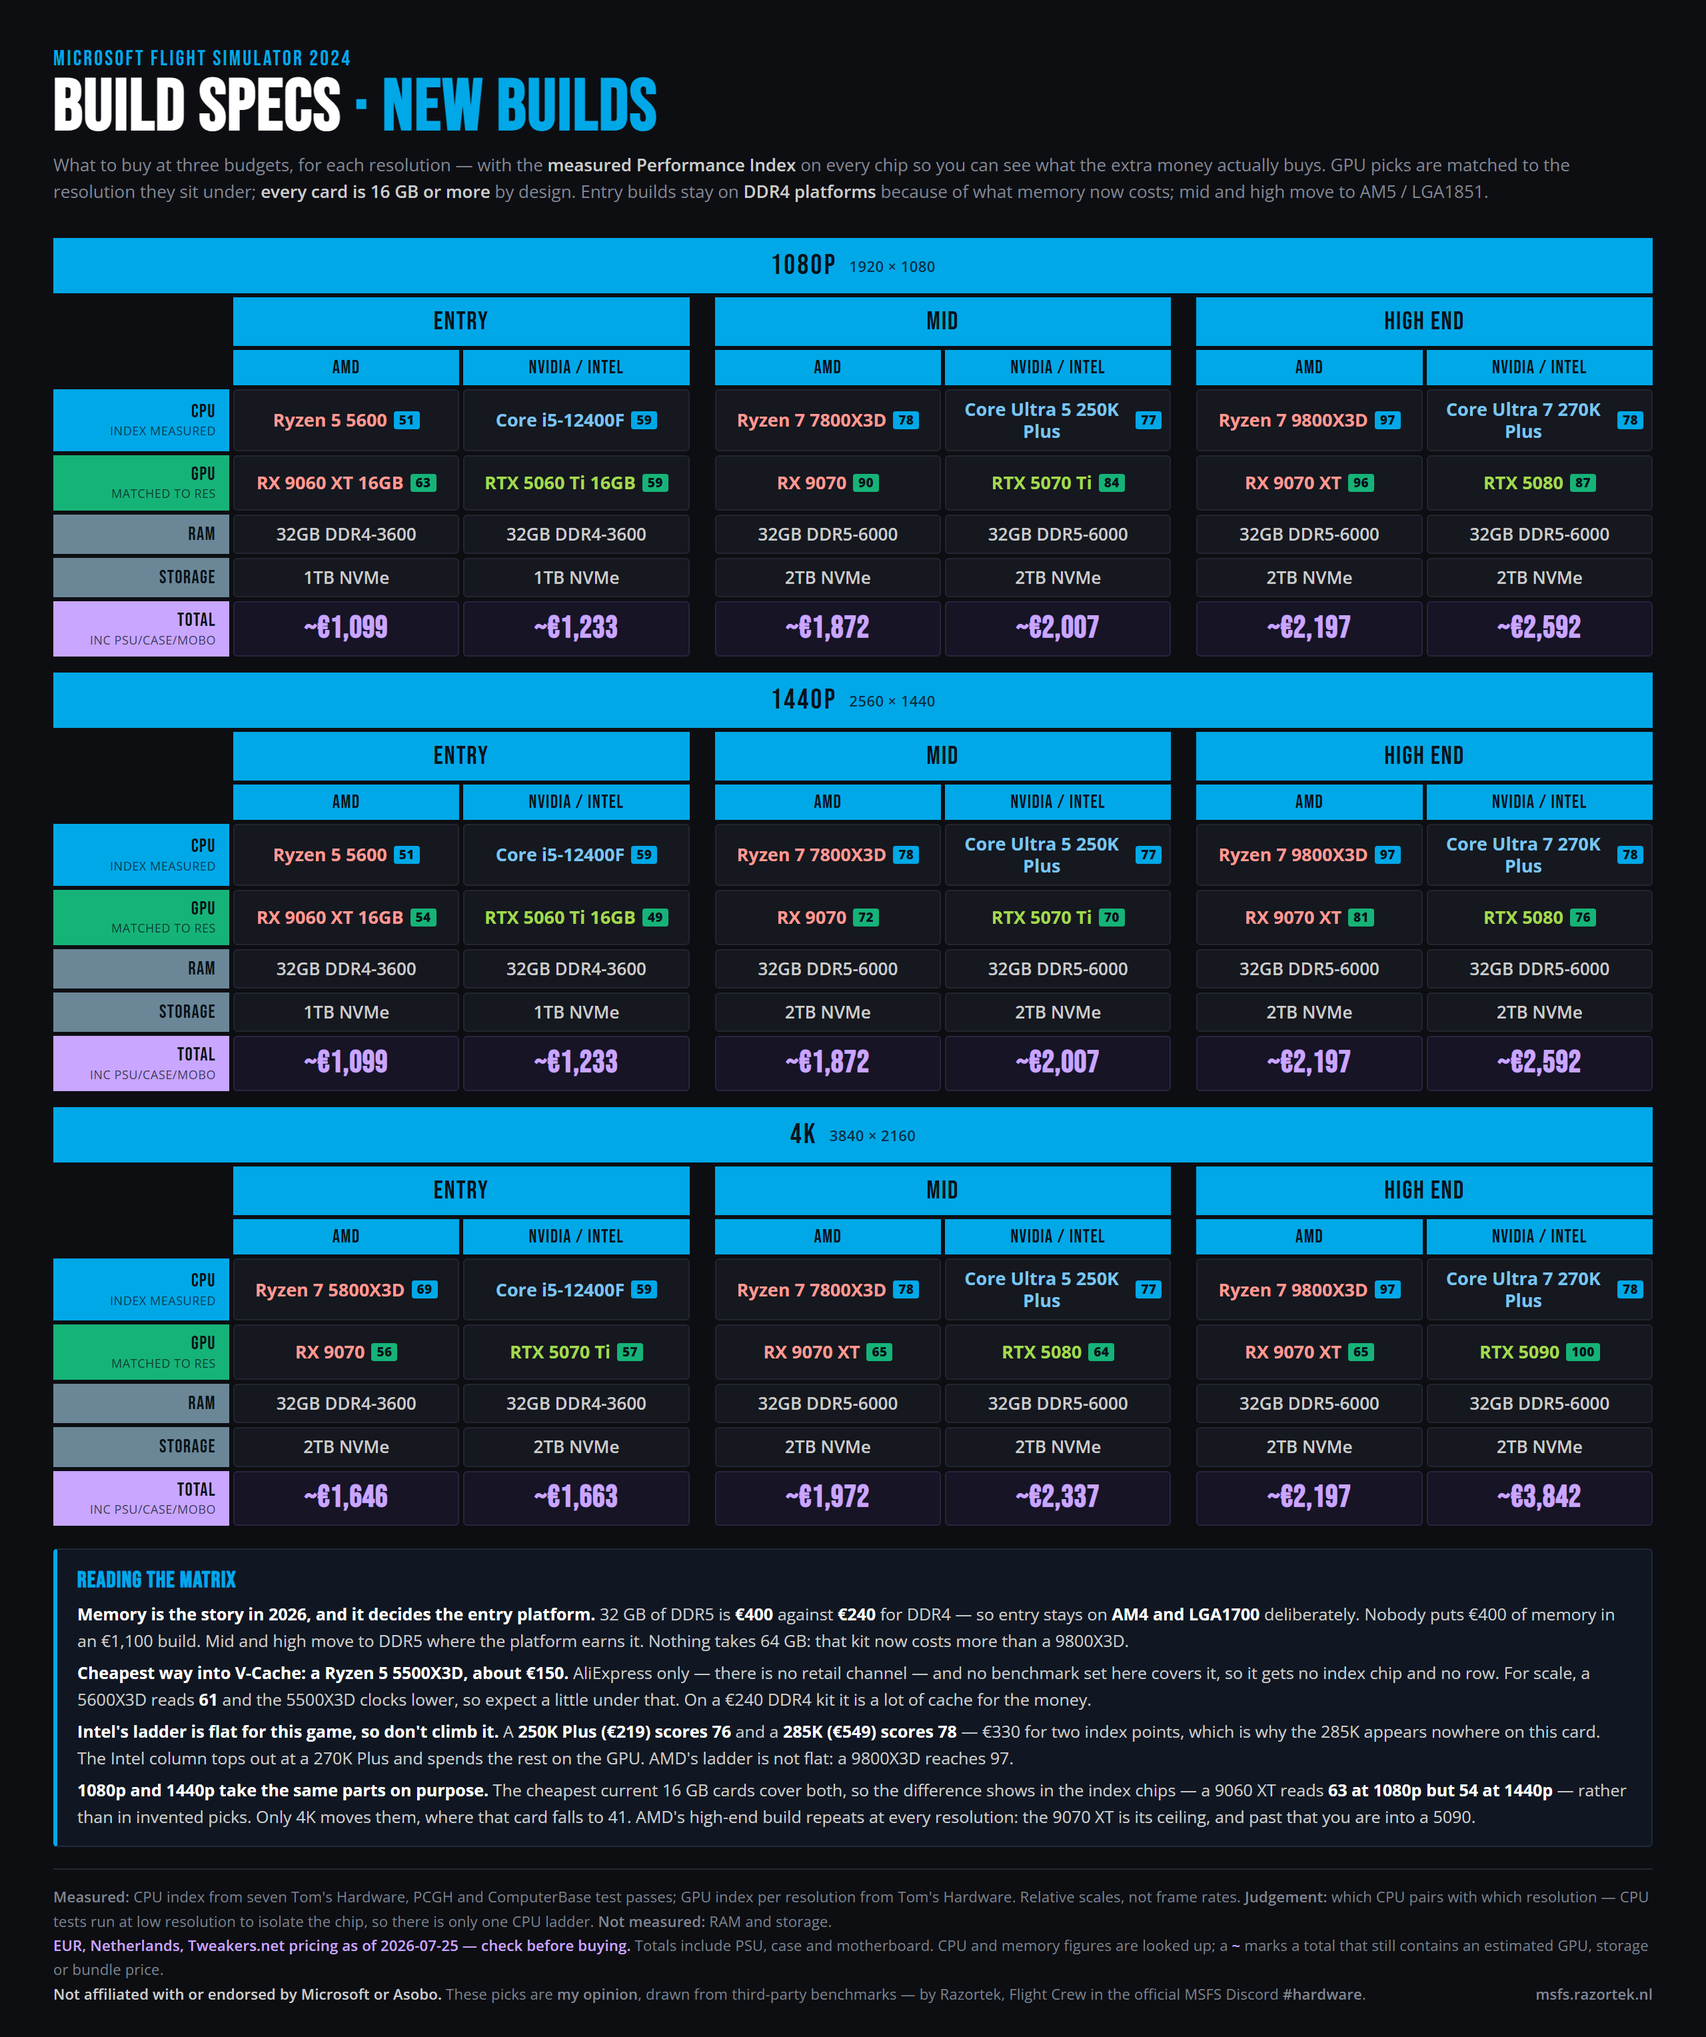
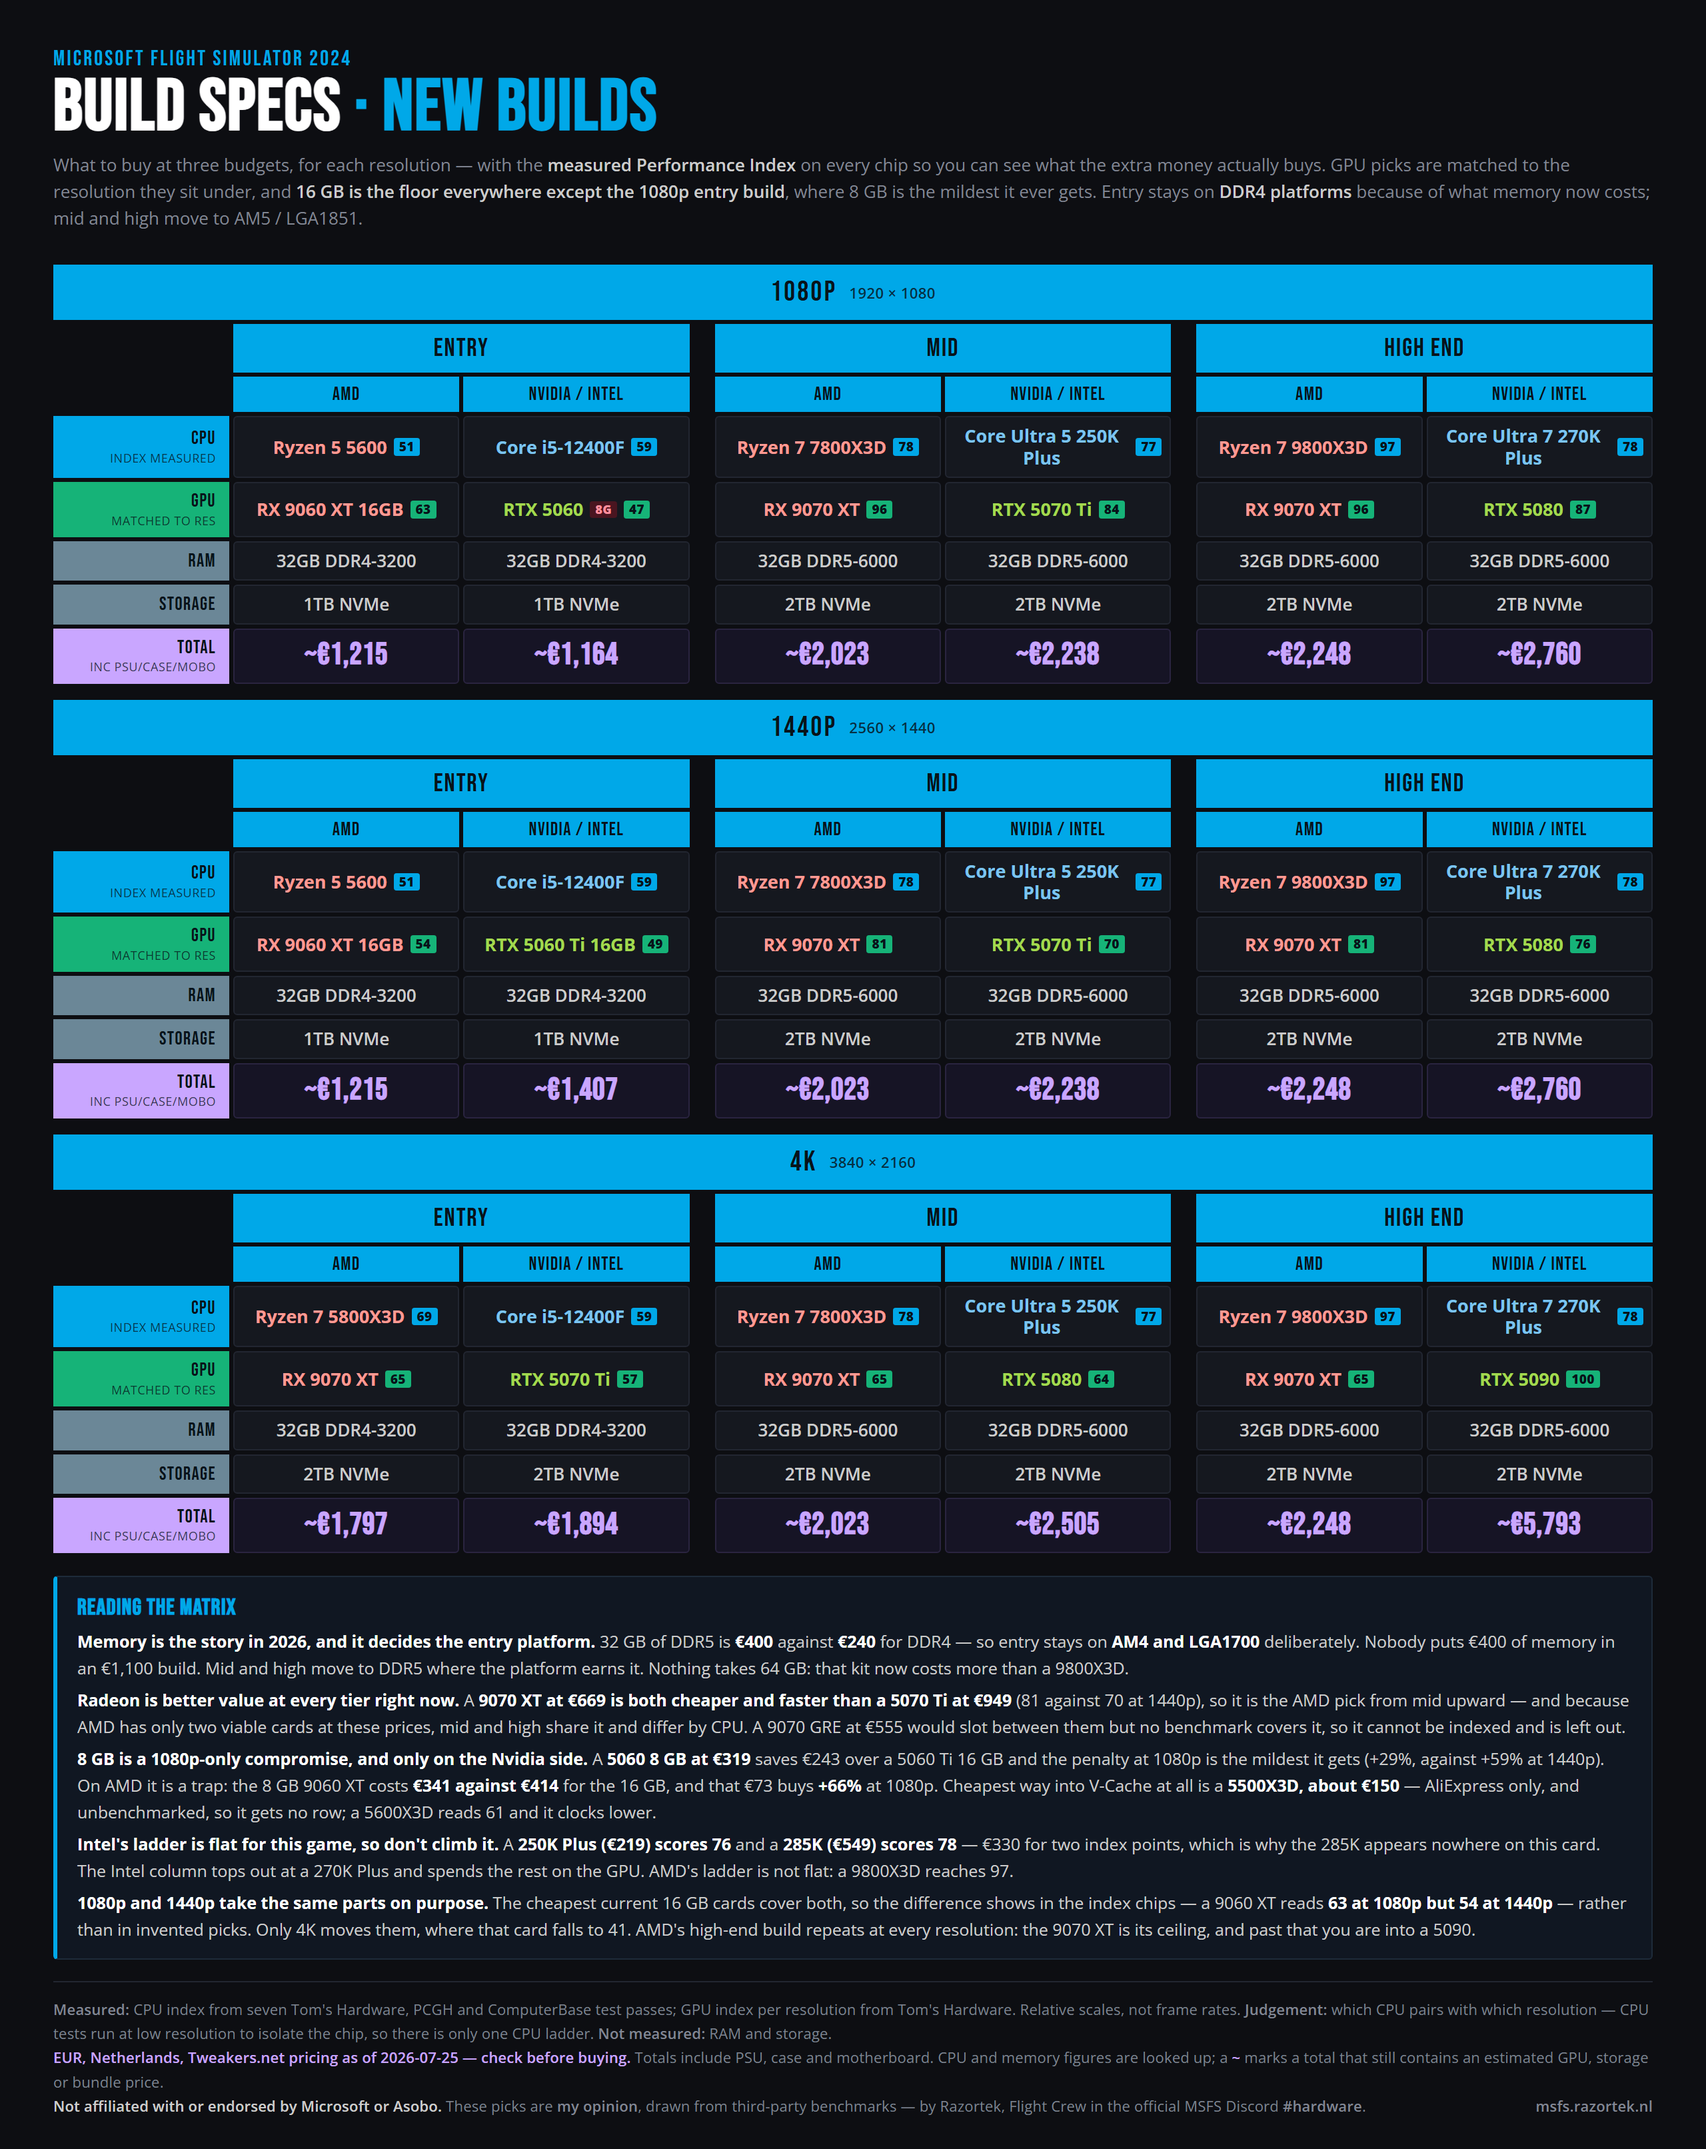
Real GPU and storage prices; 8GB entry at 1080p only; DDR4-3200
Fills in every GPU and storage price from Tweakers, leaving only the
PSU/case/mobo bundles estimated. Corrects the DDR4 kit to 3200 rather than
3600. The real figures move three picks.

Radeon is now the pick from mid upward on price alone: a 9070 XT at 669 EUR
is both cheaper and faster than a 5070 Ti at 949 (81 against 70 at 1440p),
so it replaces the RX 9070 throughout. AMD has only two viable cards at
these prices, so mid and high share the 9070 XT and differ by CPU. The
9070 GRE at 555 would slot between them but has no benchmark coverage, so
it cannot be indexed and stays out.

Storage tripled against my estimates -- 140/240 rather than 79/139 -- which
adds about 100 EUR to every build.

Entry at 1080p now takes an 8GB card, but only there and only on Nvidia. A
5060 at 319 saves 243 over a 5060 Ti 16GB and 1080p is where the VRAM
penalty is mildest (+29%, against +59% at 1440p). On AMD the same move is a
trap: the 8GB 9060 XT is 341 against 414 for the 16GB, and that 73 EUR buys
+66% at 1080p -- so AMD's floor stays at 16GB. The picks are deliberately
asymmetric because the prices are.

Carries the VRAM tags over from the GPU tier cards so the 8GB pick reads as
a compromise rather than a bargain, and corrects the lede, which until now
claimed every card was 16GB or more.

Changed region(s): [[0.0312, 0.0311, 0.9688, 0.9948], [0.0625, 0.1865, 0.125, 0.2176]]

diff --git a/tierlist_card_build.html b/tierlist_card_build.html
@@ -82,6 +82,12 @@ h1 em{font-style:normal;color:var(--acc)}
   letter-spacing:.02em;color:var(--on-acc);background:var(--acc);
   border-radius:2px;padding:1px 4px;flex:none}
 .ix.g{background:#16b378}
+/* VRAM tags, same ramp as the GPU tier cards: 8 GB critical, 10-12 GB caution.
+   An 8 GB pick has to be visible as a compromise, not slip past as a bargain. */
+.vr{font-family:"Open Sans",sans-serif;font-size:9px;font-weight:800;letter-spacing:.02em;
+  border-radius:2px;padding:1px 4px;flex:none}
+.vr.v8{background:#4a1520;color:#ff8f9d}
+.vr.v12{background:#3a2e10;color:#f2c14e}
 .cell.eur{font-family:"Bebas Neue",sans-serif;font-size:23px;letter-spacing:.02em;
   color:var(--gold);background:#161425;border-color:#2a2440;padding:3px 6px 4px}
 .cell.eur.none{color:var(--faint);font-size:18px}
@@ -108,9 +114,10 @@ h1 em{font-style:normal;color:var(--acc)}
   <div class="lede">
     What to buy at three budgets, for each resolution — with the <b>measured Performance
     Index</b> on every chip so you can see what the extra money actually buys.
-    GPU picks are matched to the resolution they sit under; <b>every card is 16 GB or
-    more</b> by design. Entry builds stay on <b>DDR4 platforms</b> because of what memory
-    now costs; mid and high move to AM5 / LGA1851.
+    GPU picks are matched to the resolution they sit under, and <b>16 GB is the floor
+    everywhere except the 1080p entry build</b>, where 8 GB is the mildest it ever gets.
+    Entry stays on <b>DDR4 platforms</b> because of what memory now costs; mid and high
+    move to AM5 / LGA1851.
   </div>
 
   <div id="grid" class="grid"></div>
@@ -122,10 +129,17 @@ h1 em{font-style:normal;color:var(--acc)}
     LGA1700</b> deliberately. Nobody puts €400 of memory in an €1,100 build. Mid and high
     move to DDR5 where the platform earns it. Nothing takes 64 GB: that kit now costs more
     than a 9800X3D.</p>
-    <p><b>Cheapest way into V-Cache: a Ryzen 5 5500X3D, about €150.</b> AliExpress only —
-    there is no retail channel — and no benchmark set here covers it, so it gets no index
-    chip and no row. For scale, a 5600X3D reads <b>61</b> and the 5500X3D clocks lower, so
-    expect a little under that. On a €240 DDR4 kit it is a lot of cache for the money.</p>
+    <p><b>Radeon is better value at every tier right now.</b> A <b>9070 XT at €669 is both
+    cheaper and faster than a 5070 Ti at €949</b> (81 against 70 at 1440p), so it is the
+    AMD pick from mid upward — and because AMD has only two viable cards at these prices,
+    mid and high share it and differ by CPU. A 9070 GRE at €555 would slot between them
+    but no benchmark covers it, so it cannot be indexed and is left out.</p>
+    <p><b>8 GB is a 1080p-only compromise, and only on the Nvidia side.</b> A
+    <b>5060 8 GB at €319</b> saves €243 over a 5060 Ti 16 GB and the penalty at 1080p is
+    the mildest it gets (+29%, against +59% at 1440p). On AMD it is a trap: the 8 GB
+    9060 XT costs <b>€341 against €414</b> for the 16 GB, and that €73 buys <b>+66%</b> at
+    1080p. Cheapest way into V-Cache at all is a <b>5500X3D, about €150</b> — AliExpress
+    only, and unbenchmarked, so it gets no row; a 5600X3D reads 61 and it clocks lower.</p>
     <p><b>Intel's ladder is flat for this game, so don't climb it.</b> A
     <b>250K Plus (€219) scores 76</b> and a <b>285K (€549) scores 78</b> — €330 for two
     index points, which is why the 285K appears nowhere on this card. The Intel column
@@ -161,44 +175,44 @@ const PRICED_ON = "2026-07-25";
 const BUILDS = {
 "1080p": {
   "entry": [
-    { v:"amd", cpu:"Ryzen 5 5600", ci:51, gpu:"RX 9060 XT 16GB", gi:63, ram:"32GB DDR4-3600", sto:"1TB NVMe", eur:1099, approx:true },
-    { v:"nv", cpu:"Core i5-12400F", ci:59, gpu:"RTX 5060 Ti 16GB", gi:59, ram:"32GB DDR4-3600", sto:"1TB NVMe", eur:1233, approx:true }
+    { v:"amd", cpu:"Ryzen 5 5600", ci:51, gpu:"RX 9060 XT 16GB", gi:63, vram:16, ram:"32GB DDR4-3200", sto:"1TB NVMe", eur:1215, approx:true },
+    { v:"nv", cpu:"Core i5-12400F", ci:59, gpu:"RTX 5060", gi:47, vram:8, ram:"32GB DDR4-3200", sto:"1TB NVMe", eur:1164, approx:true }
   ],
   "mid": [
-    { v:"amd", cpu:"Ryzen 7 7800X3D", ci:78, gpu:"RX 9070", gi:90, ram:"32GB DDR5-6000", sto:"2TB NVMe", eur:1872, approx:true },
-    { v:"nv", cpu:"Core Ultra 5 250K Plus", ci:77, gpu:"RTX 5070 Ti", gi:84, ram:"32GB DDR5-6000", sto:"2TB NVMe", eur:2007, approx:true }
+    { v:"amd", cpu:"Ryzen 7 7800X3D", ci:78, gpu:"RX 9070 XT", gi:96, vram:16, ram:"32GB DDR5-6000", sto:"2TB NVMe", eur:2023, approx:true },
+    { v:"nv", cpu:"Core Ultra 5 250K Plus", ci:77, gpu:"RTX 5070 Ti", gi:84, vram:16, ram:"32GB DDR5-6000", sto:"2TB NVMe", eur:2238, approx:true }
   ],
   "high": [
-    { v:"amd", cpu:"Ryzen 7 9800X3D", ci:97, gpu:"RX 9070 XT", gi:96, ram:"32GB DDR5-6000", sto:"2TB NVMe", eur:2197, approx:true },
-    { v:"nv", cpu:"Core Ultra 7 270K Plus", ci:78, gpu:"RTX 5080", gi:87, ram:"32GB DDR5-6000", sto:"2TB NVMe", eur:2592, approx:true }
+    { v:"amd", cpu:"Ryzen 7 9800X3D", ci:97, gpu:"RX 9070 XT", gi:96, vram:16, ram:"32GB DDR5-6000", sto:"2TB NVMe", eur:2248, approx:true },
+    { v:"nv", cpu:"Core Ultra 7 270K Plus", ci:78, gpu:"RTX 5080", gi:87, vram:16, ram:"32GB DDR5-6000", sto:"2TB NVMe", eur:2760, approx:true }
   ],
 },
 "1440p": {
   "entry": [
-    { v:"amd", cpu:"Ryzen 5 5600", ci:51, gpu:"RX 9060 XT 16GB", gi:54, ram:"32GB DDR4-3600", sto:"1TB NVMe", eur:1099, approx:true },
-    { v:"nv", cpu:"Core i5-12400F", ci:59, gpu:"RTX 5060 Ti 16GB", gi:49, ram:"32GB DDR4-3600", sto:"1TB NVMe", eur:1233, approx:true }
+    { v:"amd", cpu:"Ryzen 5 5600", ci:51, gpu:"RX 9060 XT 16GB", gi:54, vram:16, ram:"32GB DDR4-3200", sto:"1TB NVMe", eur:1215, approx:true },
+    { v:"nv", cpu:"Core i5-12400F", ci:59, gpu:"RTX 5060 Ti 16GB", gi:49, vram:16, ram:"32GB DDR4-3200", sto:"1TB NVMe", eur:1407, approx:true }
   ],
   "mid": [
-    { v:"amd", cpu:"Ryzen 7 7800X3D", ci:78, gpu:"RX 9070", gi:72, ram:"32GB DDR5-6000", sto:"2TB NVMe", eur:1872, approx:true },
-    { v:"nv", cpu:"Core Ultra 5 250K Plus", ci:77, gpu:"RTX 5070 Ti", gi:70, ram:"32GB DDR5-6000", sto:"2TB NVMe", eur:2007, approx:true }
+    { v:"amd", cpu:"Ryzen 7 7800X3D", ci:78, gpu:"RX 9070 XT", gi:81, vram:16, ram:"32GB DDR5-6000", sto:"2TB NVMe", eur:2023, approx:true },
+    { v:"nv", cpu:"Core Ultra 5 250K Plus", ci:77, gpu:"RTX 5070 Ti", gi:70, vram:16, ram:"32GB DDR5-6000", sto:"2TB NVMe", eur:2238, approx:true }
   ],
   "high": [
-    { v:"amd", cpu:"Ryzen 7 9800X3D", ci:97, gpu:"RX 9070 XT", gi:81, ram:"32GB DDR5-6000", sto:"2TB NVMe", eur:2197, approx:true },
-    { v:"nv", cpu:"Core Ultra 7 270K Plus", ci:78, gpu:"RTX 5080", gi:76, ram:"32GB DDR5-6000", sto:"2TB NVMe", eur:2592, approx:true }
+    { v:"amd", cpu:"Ryzen 7 9800X3D", ci:97, gpu:"RX 9070 XT", gi:81, vram:16, ram:"32GB DDR5-6000", sto:"2TB NVMe", eur:2248, approx:true },
+    { v:"nv", cpu:"Core Ultra 7 270K Plus", ci:78, gpu:"RTX 5080", gi:76, vram:16, ram:"32GB DDR5-6000", sto:"2TB NVMe", eur:2760, approx:true }
   ],
 },
 "4K": {
   "entry": [
-    { v:"amd", cpu:"Ryzen 7 5800X3D", ci:69, gpu:"RX 9070", gi:56, ram:"32GB DDR4-3600", sto:"2TB NVMe", eur:1646, approx:true },
-    { v:"nv", cpu:"Core i5-12400F", ci:59, gpu:"RTX 5070 Ti", gi:57, ram:"32GB DDR4-3600", sto:"2TB NVMe", eur:1663, approx:true }
+    { v:"amd", cpu:"Ryzen 7 5800X3D", ci:69, gpu:"RX 9070 XT", gi:65, vram:16, ram:"32GB DDR4-3200", sto:"2TB NVMe", eur:1797, approx:true },
+    { v:"nv", cpu:"Core i5-12400F", ci:59, gpu:"RTX 5070 Ti", gi:57, vram:16, ram:"32GB DDR4-3200", sto:"2TB NVMe", eur:1894, approx:true }
   ],
   "mid": [
-    { v:"amd", cpu:"Ryzen 7 7800X3D", ci:78, gpu:"RX 9070 XT", gi:65, ram:"32GB DDR5-6000", sto:"2TB NVMe", eur:1972, approx:true },
-    { v:"nv", cpu:"Core Ultra 5 250K Plus", ci:77, gpu:"RTX 5080", gi:64, ram:"32GB DDR5-6000", sto:"2TB NVMe", eur:2337, approx:true }
+    { v:"amd", cpu:"Ryzen 7 7800X3D", ci:78, gpu:"RX 9070 XT", gi:65, vram:16, ram:"32GB DDR5-6000", sto:"2TB NVMe", eur:2023, approx:true },
+    { v:"nv", cpu:"Core Ultra 5 250K Plus", ci:77, gpu:"RTX 5080", gi:64, vram:16, ram:"32GB DDR5-6000", sto:"2TB NVMe", eur:2505, approx:true }
   ],
   "high": [
-    { v:"amd", cpu:"Ryzen 7 9800X3D", ci:97, gpu:"RX 9070 XT", gi:65, ram:"32GB DDR5-6000", sto:"2TB NVMe", eur:2197, approx:true },
-    { v:"nv", cpu:"Core Ultra 7 270K Plus", ci:78, gpu:"RTX 5090", gi:100, ram:"32GB DDR5-6000", sto:"2TB NVMe", eur:3842, approx:true }
+    { v:"amd", cpu:"Ryzen 7 9800X3D", ci:97, gpu:"RX 9070 XT", gi:65, vram:16, ram:"32GB DDR5-6000", sto:"2TB NVMe", eur:2248, approx:true },
+    { v:"nv", cpu:"Core Ultra 7 270K Plus", ci:78, gpu:"RTX 5090", gi:100, vram:32, ram:"32GB DDR5-6000", sto:"2TB NVMe", eur:5793, approx:true }
   ],
 },
 };
@@ -243,7 +257,10 @@ for (const [res, label] of RES) {
         } else {
           const chip = row.chip && b[row.chip] !== null
             ? `<span class="ix${row.key === "gpu" ? " g" : ""}">${b[row.chip]}</span>` : ``;
-          h += `<div class="cell ${tint(row, b.v)}">${b[row.key]}${chip}</div>`;
+          // flag a thin-VRAM card on the GPU row so a compromise reads as one
+          const vr = row.key === "gpu" && b.vram !== null && b.vram <= 12
+            ? `<span class="vr ${b.vram <= 8 ? "v8" : "v12"}">${b.vram}G</span>` : ``;
+          h += `<div class="cell ${tint(row, b.v)}">${b[row.key]}${vr}${chip}</div>`;
         }
       }
       if (ti < 2) h += `<div class="sp"></div>`;

diff --git a/make_build_table.py b/make_build_table.py
@@ -12,7 +12,8 @@ it does not know.
 """
 import csv, datetime, os, sys
 
-from msfs_index import cpu_index, gpu_index, CPU_SPECS, CPU_VENDOR, coverage
+from msfs_index import (cpu_index, gpu_index, CPU_SPECS, CPU_VENDOR, GPU_SPECS,
+                        coverage)
 
 HERE = os.path.dirname(os.path.abspath(__file__))
 CARD = os.path.join(HERE, 'tierlist_card_build.html')
@@ -114,6 +115,7 @@ def main():
             'cpu': cpu, 'ci': ci, 'cn': cpu_cov.get(cpu, 0),
             'gpu': gpu, 'gi': gi, 'gn': gpu_cov.get(gpu, 0),
             'ram': ram, 'sto': sto, 'total': total, 'approx': approx,
+            'vram': GPU_SPECS.get(gpu, {}).get('vram'),
         }
 
     for res in RES:
@@ -133,10 +135,11 @@ def main():
                 if not b:
                     continue
                 cells.append(
-                    '    { v:"%s", cpu:%s, ci:%s, gpu:%s, gi:%s, ram:%s, sto:%s,'
-                    ' eur:%s, approx:%s }'
+                    '    { v:"%s", cpu:%s, ci:%s, gpu:%s, gi:%s, vram:%s, ram:%s,'
+                    ' sto:%s, eur:%s, approx:%s }'
                     % (ven, js_str(b['cpu']), fmt(b['ci']), js_str(b['gpu']),
-                       fmt(b['gi']), js_str(b['ram']), js_str(b['sto']),
+                       fmt(b['gi']), fmt(b['vram']), js_str(b['ram']),
+                       js_str(b['sto']),
                        'null' if b['total'] is None else b['total'],
                        'true' if b['approx'] else 'false'))
             js.append('  "%s": [\n%s\n  ],' % (tier, ',\n'.join(cells)))
